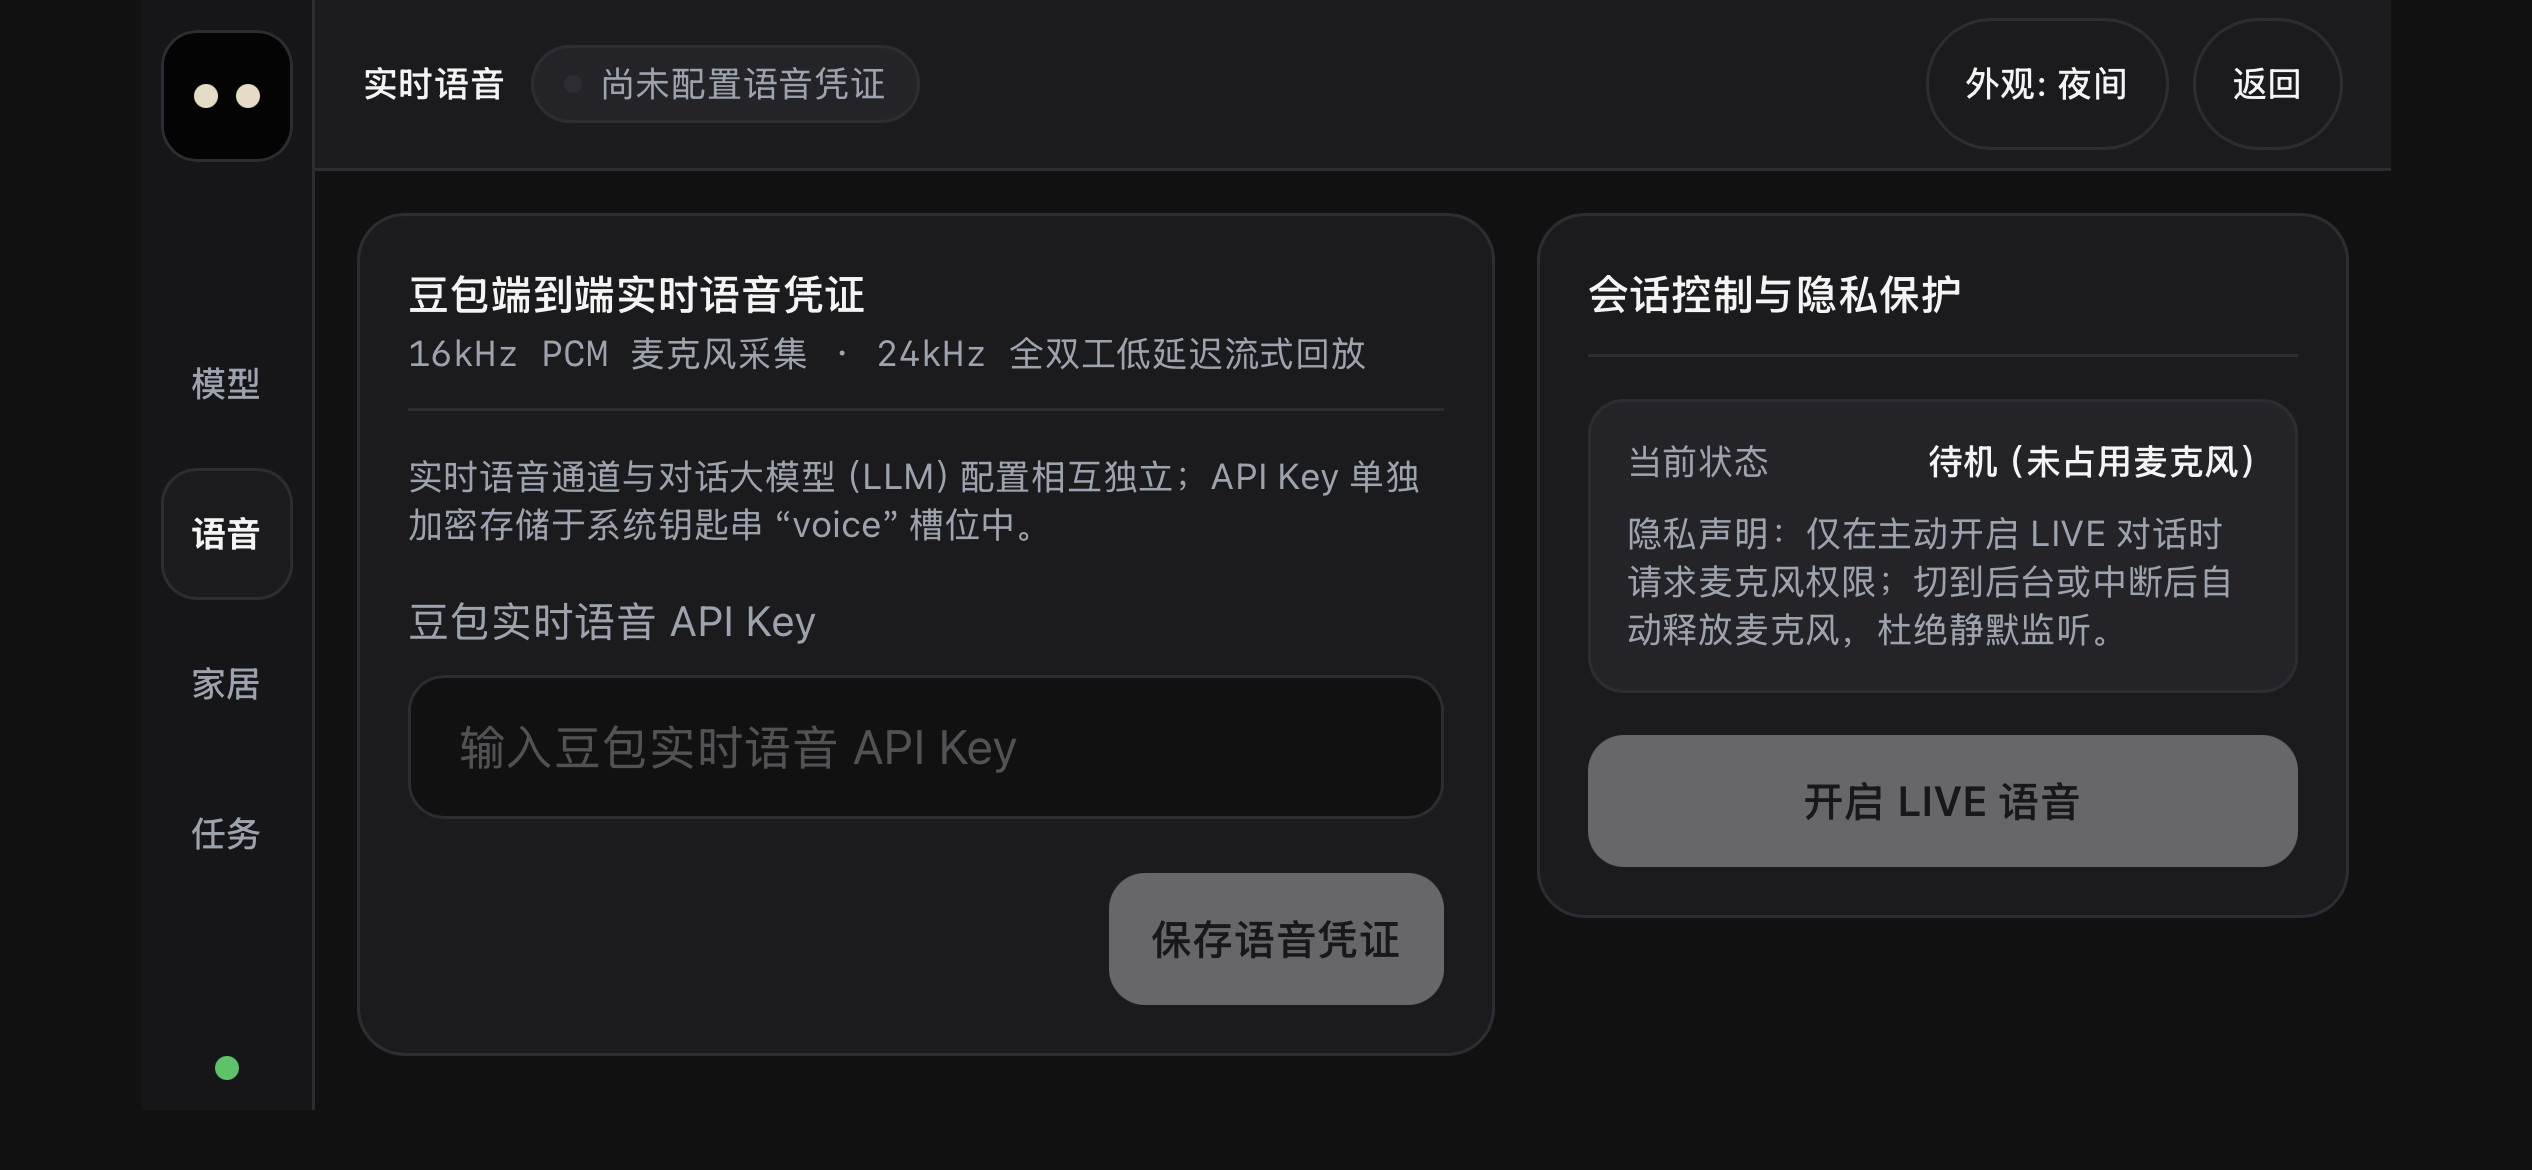
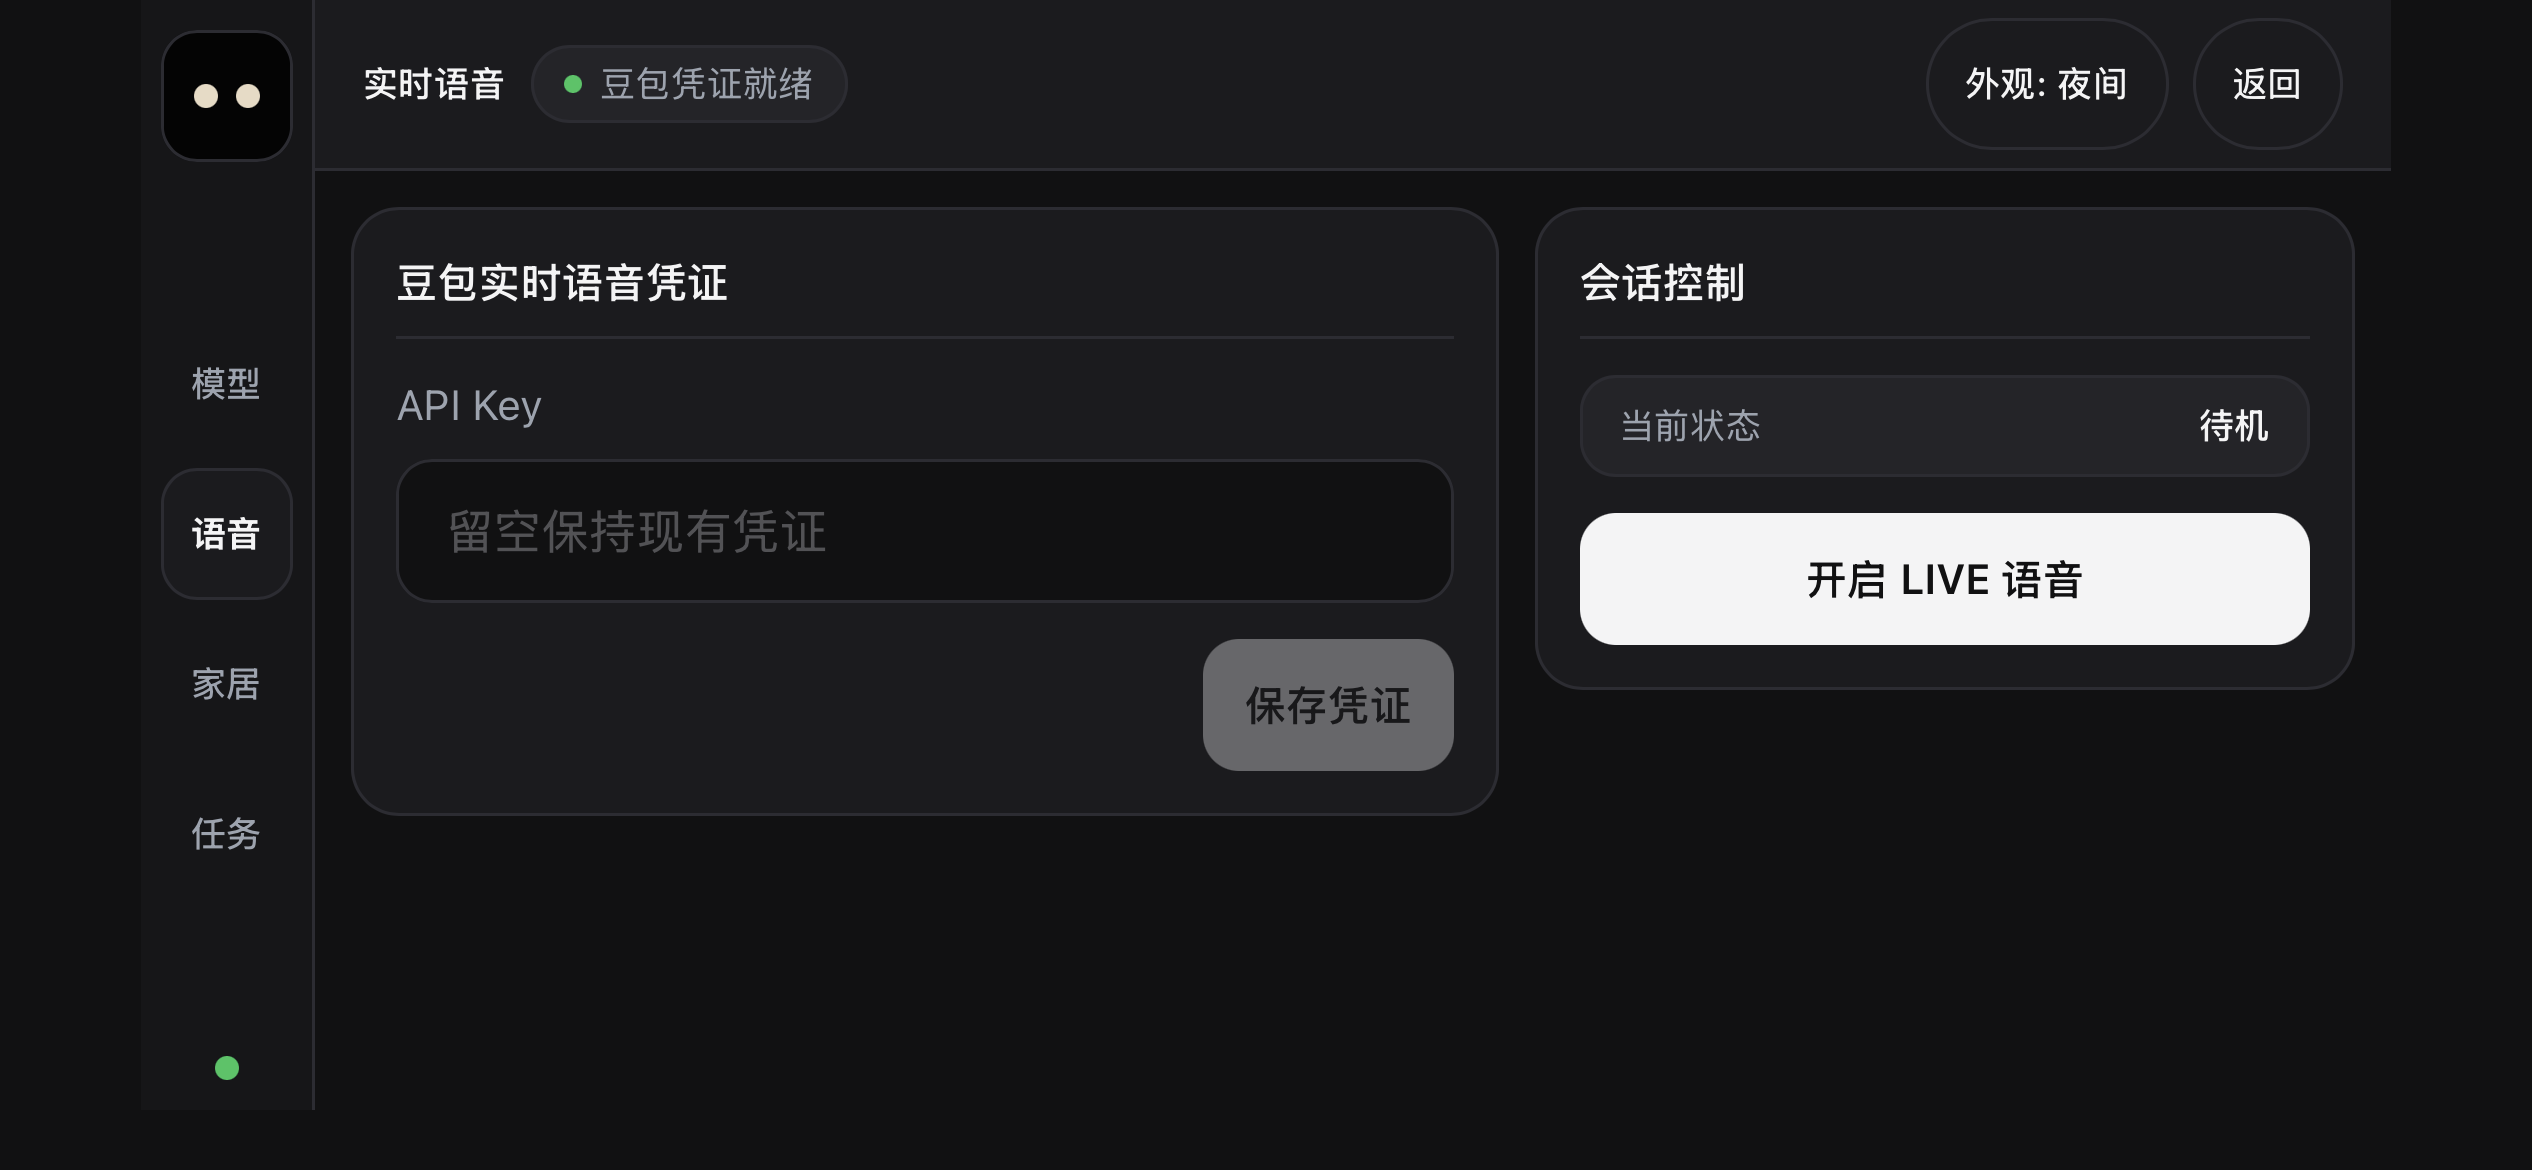
fix(nsh): 优化语音管理界面体验，去除冗余提示并根除 CLS 与边界溢出
1. 移除卡片冷门技术参数与未要求的钥匙串/麦克风隐私免责废话
2. 移除卡片右上角重复且挤断的徽标，精简输入框占位符与按钮文案
3. 将 Toast 提示移出普通文档流，改为 absolute 悬浮层，彻底解决保存操作带来的 CLS 抖动
4. 紧凑卡片排版与内边距，确保横屏视口下首屏完整可见，消除保存按钮超出边界问题

diff --git a/apps/nsh/ui/VoiceSpaceView.tsx b/apps/nsh/ui/VoiceSpaceView.tsx
@@ -18,15 +18,15 @@ export function VoiceSpaceView(props: {
       case "connecting":
         return "LIVE 连接中…";
       case "listening":
-        return props.store.voiceState().muted ? "实时语音（已静音）" : "实时聆听中…";
+        return props.store.voiceState().muted ? "已静音" : "聆听中…";
       case "speaking":
-        return "LOOI 说话中…";
+        return "说话中…";
       case "permission":
         return "等待麦克风权限…";
       case "error":
-        return "语音连接异常";
+        return "连接异常";
       default:
-        return "待机（未占用麦克风）";
+        return "待机";
     }
   };
 
@@ -37,7 +37,7 @@ export function VoiceSpaceView(props: {
     try {
       props.store.configureVoice(raw);
       voiceKey.set("");
-      props.store.notify("豆包实时语音 API Key 已安全保存并生效");
+      props.store.notify("语音配置已保存");
     } catch (cause) {
       props.store.notify(
         cause instanceof Error ? cause.message : "保存语音配置失败",
@@ -48,32 +48,29 @@ export function VoiceSpaceView(props: {
   };
 
   const renderLeftCard = () => (
-    <View class="gap-3.5">
+    <View class="gap-3">
       <If when={props.store.voiceTask()}>
-        <View class="rounded-2xl border border-warning bg-card p-4 gap-3">
+        <View class="rounded-2xl border border-warning bg-card p-3.5 gap-2.5">
           <View class="flex-row items-center gap-2 border-b border-border pb-2">
             <View class="w-2 h-2 rounded-full bg-warning" />
             <Text class="text-foreground text-sm font-semibold">
-              语音提出的待审批任务
+              待确认语音任务
             </Text>
           </View>
-          <Text class="text-muted-foreground text-xs">
-            语音助手请求执行以下 Agent 任务。设备控制或文件改动仍会在此后要求单次确认：
-          </Text>
-          <View class="rounded-xl bg-background p-3" selectable={true}>
+          <View class="rounded-xl bg-background p-2.5" selectable={true}>
             <Text class="text-foreground font-mono text-sm">
               {props.store.voiceTask()}
             </Text>
           </View>
           <View class="flex-row justify-end gap-2">
             <ActionButton
-              label="拒绝任务"
+              label="拒绝"
               kind="danger"
               compact={true}
               onPress={() => props.store.confirmVoiceTask(false)}
             />
             <ActionButton
-              label="执行这项任务"
+              label="执行"
               kind="primary"
               compact={true}
               onPress={() => props.store.confirmVoiceTask(true)}
@@ -82,46 +79,30 @@ export function VoiceSpaceView(props: {
         </View>
       </If>
 
-      <View class="rounded-2xl border border-border bg-card p-4 gap-3.5">
-        <View class="flex-row items-center justify-between border-b border-border pb-2.5">
-          <View class="gap-0.5">
-            <Text class="text-foreground text-sm font-semibold">
-              豆包端到端实时语音凭证
-            </Text>
-            <Text class="text-muted-foreground text-xs font-mono">
-              16kHz PCM 麦克风采集 · 24kHz 全双工低延迟流式回放
-            </Text>
-          </View>
-          <If when={props.store.voiceConfigured()}>
-            <View class="flex-row items-center gap-1.5 px-2 py-0.5 rounded-full bg-muted">
-              <View class="w-1.5 h-1.5 rounded-full bg-verified" />
-              <Text class="text-verified text-xs font-medium">已配置凭证</Text>
-            </View>
-          </If>
+      <View class="rounded-2xl border border-border bg-card p-3.5 gap-3">
+        <View class="border-b border-border pb-2">
+          <Text class="text-foreground text-sm font-semibold">
+            豆包实时语音凭证
+          </Text>
         </View>
 
-        <Text class="text-muted-foreground text-xs">
-          实时语音通道与对话大模型（LLM）配置相互独立；API Key 单独加密存储于系统钥匙串
-          “voice” 槽位中。
-        </Text>
-
         <TextField
-          label="豆包实时语音 API Key"
+          label="API Key"
           testID="voice-key"
           value={voiceKey()}
           onChange={(v) => voiceKey.set(v)}
           masked={true}
           placeholder={
             props.store.voiceConfigured()
-              ? "已安全保存于系统钥匙串；留空继续使用"
+              ? "留空保持现有凭证"
               : "输入豆包实时语音 API Key"
           }
           onSubmit={saveVoiceKey}
         />
 
-        <View class="flex-row justify-end pt-1">
+        <View class="flex-row justify-end">
           <ActionButton
-            label={saving() ? "正在保存…" : "保存语音凭证"}
+            label={saving() ? "保存中…" : "保存凭证"}
             testID="save-voice-btn"
             kind="primary"
             compact={true}
@@ -134,10 +115,10 @@ export function VoiceSpaceView(props: {
   );
 
   const renderRightCard = () => (
-    <View class="rounded-2xl border border-border bg-card p-4 gap-3.5">
-      <View class="flex-row items-center justify-between border-b border-border pb-2.5">
+    <View class="rounded-2xl border border-border bg-card p-3.5 gap-3">
+      <View class="flex-row items-center justify-between border-b border-border pb-2">
         <Text class="text-foreground text-sm font-semibold">
-          会话控制与隐私保护
+          会话控制
         </Text>
         <If when={active()}>
           <View class="flex-row items-center gap-1.5">
@@ -147,15 +128,10 @@ export function VoiceSpaceView(props: {
         </If>
       </View>
 
-      <View class="rounded-xl border border-border bg-muted p-3 gap-2">
-        <View class="flex-row items-center justify-between">
-          <Text class="text-muted-foreground text-xs">当前状态</Text>
-          <Text class="text-foreground text-xs font-semibold">
-            {phaseDescription()}
-          </Text>
-        </View>
-        <Text class="text-muted-foreground text-xs">
-          隐私声明：仅在主动开启 LIVE 对话时请求麦克风权限；切到后台或中断后自动释放麦克风，杜绝静默监听。
+      <View class="rounded-xl border border-border bg-muted px-3 py-2 flex-row items-center justify-between">
+        <Text class="text-muted-foreground text-xs">当前状态</Text>
+        <Text class="text-foreground text-xs font-semibold">
+          {phaseDescription()}
         </Text>
       </View>
 
@@ -177,13 +153,13 @@ export function VoiceSpaceView(props: {
       <If when={active()}>
         <View class="flex-row gap-2 pt-1 border-t border-border">
           <ActionButton
-            label={props.store.voiceState().muted ? "解除静音 (开麦)" : "麦克风静音"}
+            label={props.store.voiceState().muted ? "解除静音" : "麦克风静音"}
             compact={true}
             onPress={() => props.store.muteVoice(!props.store.voiceState().muted)}
           />
           <If when={props.store.voiceState().phase === "speaking"}>
             <ActionButton
-              label="打断说话"
+              label="打断"
               compact={true}
               onPress={() => props.store.interruptVoice()}
             />
@@ -192,7 +168,7 @@ export function VoiceSpaceView(props: {
       </If>
 
       <If when={props.store.voiceState().transcript}>
-        <View class="gap-1.5 rounded-xl border border-border bg-muted p-3">
+        <View class="gap-1 rounded-xl border border-border bg-muted p-2.5">
           <Text class="text-muted-foreground text-xs font-medium">实时转写</Text>
           <Text class="text-foreground text-sm font-medium">
             {props.store.voiceState().transcript}
@@ -214,14 +190,14 @@ export function VoiceSpaceView(props: {
         </Scroll>
       }
     >
-      <View class="flex-1 flex-row gap-3.5 min-h-0">
+      <View class="flex-1 flex-row gap-3 min-h-0">
         <View style={{ flex: 7, minWidth: 0, minHeight: 0 }}>
-          <Scroll class="flex-1" contentClass="gap-3 pb-4">
+          <Scroll class="flex-1" contentClass="gap-3 pb-2">
             {renderLeftCard()}
           </Scroll>
         </View>
         <View style={{ flex: 5, minWidth: 0, minHeight: 0 }}>
-          <Scroll class="flex-1" contentClass="gap-3 pb-4">
+          <Scroll class="flex-1" contentClass="gap-3 pb-2">
             {renderRightCard()}
           </Scroll>
         </View>

diff --git a/apps/nsh/ui/ManagementShell.tsx b/apps/nsh/ui/ManagementShell.tsx
@@ -292,13 +292,13 @@ export function ManagementShell(props: {
           </View>
 
           {/* Main Workspace */}
-          <View class="flex-1 p-3 min-h-0">
+          <View class="flex-1 p-3 min-h-0 relative">
+            {renderActiveWorkspace()}
             <If when={props.store.toast()}>
-              <View class="items-center mb-2">
+              <View class="absolute top-2 inset-x-0 items-center pointer-events-none z-30">
                 <LightToast text={props.store.toast()} />
               </View>
             </If>
-            {renderActiveWorkspace()}
           </View>
 
           {/* Bottom navigation bar */}
@@ -342,7 +342,7 @@ export function ManagementShell(props: {
         </View>
 
         {/* Right Main Workspace */}
-        <View class="flex-1 min-w-0 flex flex-col">
+        <View class="flex-1 min-w-0 flex flex-col min-h-0">
           {/* Top 48pt Context Pill Bar */}
           <View class="min-h-12 border-b border-border px-4 py-1.5 flex-row items-center justify-between gap-3 bg-card">
             {renderContextPillBar()}
@@ -367,13 +367,13 @@ export function ManagementShell(props: {
           </View>
 
           {/* Bottom Workspace Body */}
-          <View class="flex-1 p-3.5 min-h-0">
+          <View class="flex-1 p-3 min-h-0 relative">
+            {renderActiveWorkspace()}
             <If when={props.store.toast()}>
-              <View class="items-center mb-2">
+              <View class="absolute top-2 inset-x-0 items-center pointer-events-none z-30">
                 <LightToast text={props.store.toast()} />
               </View>
             </If>
-            {renderActiveWorkspace()}
           </View>
         </View>
       </View>

diff --git a/apps/nsh/ui/Controls.tsx b/apps/nsh/ui/Controls.tsx
@@ -185,8 +185,8 @@ export function LightToast(props: { text: string; stage?: boolean }) {
       role="alert"
       class={
         props.stage
-          ? "rounded-full border border-stage-pill-border bg-elevated-glass px-4 py-2 flex-row items-center gap-2"
-          : "rounded-full border border-border bg-card px-4 py-2 flex-row items-center gap-2"
+          ? "rounded-full border border-stage-pill-border bg-elevated-glass px-4 py-2 flex-row items-center gap-2 shadow-lg"
+          : "rounded-full border border-border bg-card px-4 py-2 flex-row items-center gap-2 shadow-lg"
       }
       style={{ maxWidth: 520, minHeight: 40 }}
     >

diff --git a/apps/nsh/scripts/nsh.ts b/apps/nsh/scripts/nsh.ts
@@ -102,7 +102,7 @@ const standardUiSteps =
     'await app.waitFor("标准 API (国内 BigModel)")',
     `await app.screenshot(${JSON.stringify(resolve(repo, `docs/artifacts/nsh-node-compat/${uiTarget}-settings-zai.png`))})`,
     'await app.press("nav-voice")',
-    'await app.waitFor("豆包实时语音 API Key")',
+    'await app.waitFor("豆包实时语音凭证")',
     `await app.screenshot(${JSON.stringify(resolve(repo, `docs/artifacts/nsh-node-compat/${uiTarget}-settings-voice.png`))})`,
     'await app.press("nav-home")',
     'await app.waitFor("米家服务区域")',

diff --git a/apps/nsh/App.test.tsx b/apps/nsh/App.test.tsx
@@ -42,7 +42,7 @@ test("keeps the pure face primary with inline ask bar and Structure 3 management
 
   // 4. Switch spaces
   await app.press("nav-voice");
-  expect(app.texts()).toContain("豆包实时语音 API Key");
+  expect(app.texts()).toContain("豆包实时语音凭证");
 
   await app.press("nav-home");
   expect(app.texts()).toContain("米家直连");

diff --git a/apps/nsh/native/android-test/com/superlooi/nsh/test/UiProbe.java b/apps/nsh/native/android-test/com/superlooi/nsh/test/UiProbe.java
@@ -26,7 +26,7 @@ public final class UiProbe extends Instrumentation {
             tapText("对话"); waitText("发送", 5000);
             tapText("对话");
             tapText("连接"); waitText("OpenAI / ChatGPT", 5000);
-            tapText("语音"); waitText("豆包实时语音 API Key", 5000);
+            tapText("语音"); waitText("豆包实时语音凭证", 5000);
             tapText("返回");
             waitText("陪伴待机", 5000);
             result.putString("result", "PASS native Android pure face, inline ask bar, and Structure 3 management shell through system input");

diff --git a/apps/nsh/tests/native_compat.rs b/apps/nsh/tests/native_compat.rs
@@ -39,7 +39,7 @@ fn real_app_task_and_home_panels() -> Result<(), String> {
     app.press("connection-settings")?;
     app.wait_for_within("OpenAI / ChatGPT", Duration::from_secs(5))?;
     app.press("nav-voice")?;
-    app.wait_for_within("豆包实时语音 API Key", Duration::from_secs(5))?;
+    app.wait_for_within("豆包实时语音凭证", Duration::from_secs(5))?;
     app.press("back-to-face")?;
     app.wait_for_within("陪伴待机", Duration::from_secs(5))?;
     Ok(())

diff --git a/progress.md b/progress.md
@@ -1,5 +1,25 @@
 # Super-LOOI 重构与演进进度
 
+### 语音管理空间 UI 体验优化（去冗余提示、消除 CLS、修复边界溢出）（2026-11-07）
+
+针对横屏与移动端语音配置界面的视觉与交互优化：清除未要求冗余提示文案，将 Toast 提示升级为绝对定位悬浮层消除 CLS 抖动，精简卡片结构与尺寸以消除边界溢出与文字截断。
+
+- [x] **Step 1：精简冗余提示文案与状态展示 (`apps/nsh/ui/VoiceSpaceView.tsx`)**
+  - [x] 移除冷门技术参数副标题（`16kHz PCM...`）与未要求的免责/安全废话（系统钥匙串存储声明、麦克风权限隐私声明）
+  - [x] 移除卡片右上角与顶栏重复的被挤断徽标（`已配`），保持顶栏统一表达状态
+  - [x] 简化输入框占位符、操作按钮文案及 `phaseDescription` 阶段文案
+- [x] **Step 2：将 Toast 改为绝对定位悬浮层消除 CLS (`apps/nsh/ui/ManagementShell.tsx`, `apps/nsh/ui/Controls.tsx`)**
+  - [x] 在 `ManagementShell.tsx` 中将横屏与竖屏下的 Toast 脱离文档流，改为 `absolute` 浮动层
+  - [x] 在 `Controls.tsx` 中优化 `LightToast` 悬浮阴影与层次
+  - [x] 缩短保存通知文案，避免打扰用户
+- [x] **Step 3：消除横屏下的内容与徽标超出边界问题 (`apps/nsh/ui/VoiceSpaceView.tsx`, `apps/nsh/ui/ManagementShell.tsx`)**
+  - [x] 优化卡片内边距与间隙（`p-3.5 gap-3`），卡片首屏完整可见（输入框与保存按钮不被切断）
+  - [x] 补齐 `min-h-0`、`min-w-0` 弹性盒属性，确保外层视口自适应与滚动安全兜底
+- [x] **Step 4：测试与构建验证、独立子 Agent 审查与 Git 提交**
+  - [x] 运行 `pnpm --filter @super-looi/nsh typecheck` 和 `test`（17 项全部通过）
+  - [x] 启动独立 review 子 agent 审查代码与 UI（审查结论：PASS）
+  - [x] 提交 git commit
+
 ### LLM 凭证配置标准化与 NSH 前后台一体化重构（2026-11-07）
 
 对齐 [`docs/plans/llm-credential-standardization-plan.md`](docs/plans/llm-credential-standardization-plan.md) 与 [`apps/nsh/DESIGN.md`](apps/nsh/DESIGN.md)：直接复用 `@earendil-works/pi-ai@1.5.0` 标准化多服务商凭证架构，落地「全天候深色省电桌宠主页 + A/B 明暗双主题结构 3 后台管理空间」。
